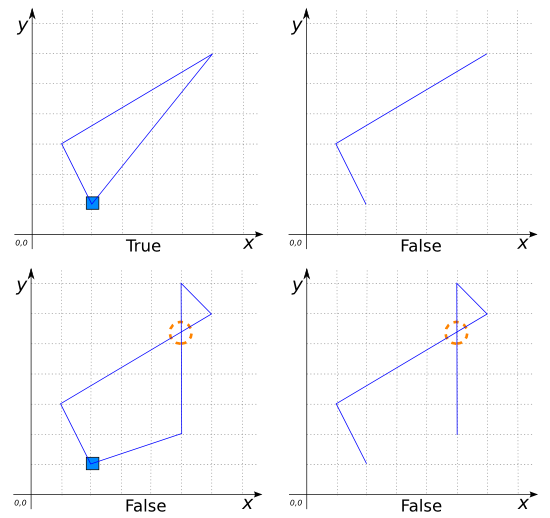
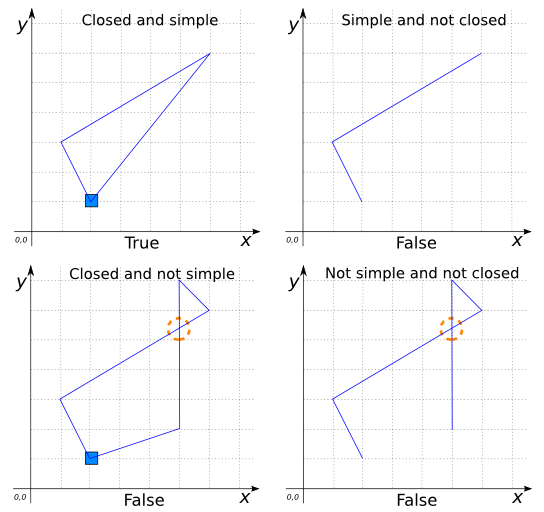
Update link and images for ST_IsRing

diff --git a/docs/dev/ST_IsRing.md b/docs/dev/ST_IsRing.md
@@ -50,4 +50,5 @@ SELECT ST_IsRing('MULTILINESTRING((0 2, 3 2, 3 6, 0 6, 0 1),
 
 ##### See also
 
+* [`ST_IsSimple`](../ST_IsSimple), [`ST_IsClosed`](../ST_IsClosed)
 * <a href="https://github.com/irstv/H2GIS/blob/master/h2spatial/src/main/java/org/h2gis/h2spatial/internal/function/spatial/properties/ST_IsRing.java" target="_blank">Source code</a>
